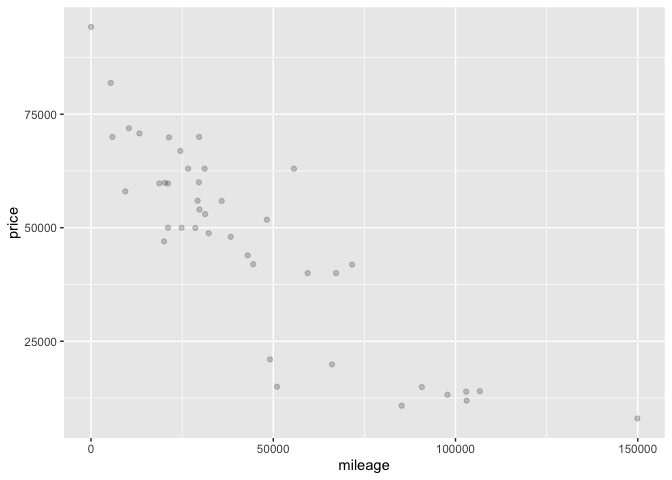
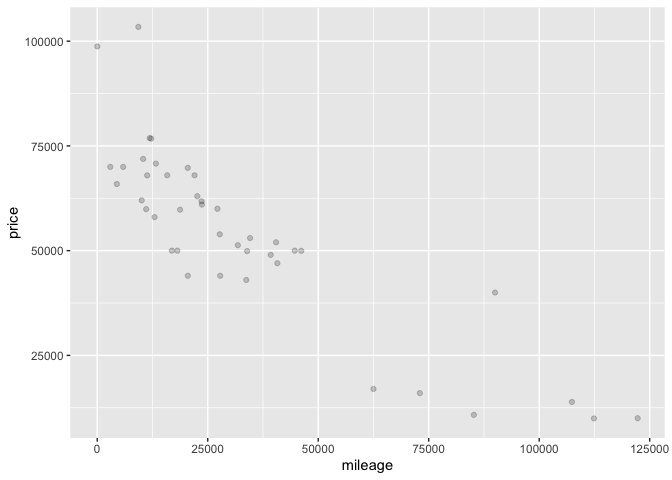
removed warnings and messages

diff --git a/exercise 1/exercise_1.md b/exercise 1/exercise_1.md
@@ -1,74 +1,20 @@
-#1) Data visualization: flights at ABIA
-
-    ## Rows: 99260 Columns: 29
-
-    ## ── Column specification ────────────────────────────────────────────────────────
-    ## Delimiter: ","
-    ## chr  (5): UniqueCarrier, TailNum, Origin, Dest, CancellationCode
-    ## dbl (24): Year, Month, DayofMonth, DayOfWeek, DepTime, CRSDepTime, ArrTime, ...
-
-    ## 
-    ## ℹ Use `spec()` to retrieve the full column specification for this data.
-    ## ℹ Specify the column types or set `show_col_types = FALSE` to quiet this message.
-
-    ## Source : https://maps.googleapis.com/maps/api/staticmap?center=usa&zoom=4&size=640x640&scale=2&maptype=terrain&language=en-EN&key=xxx
-
-    ## Source : https://maps.googleapis.com/maps/api/geocode/json?address=usa&key=xxx
+# 1) Data visualization: flights at ABIA
 
 ![](exercise_1_files/figure-markdown_github/unnamed-chunk-1-1.png)
 
-#2) Wrangling the Billboard Top 100
-
-    ## New names:
-    ## * `` -> ...1
-
-    ## Rows: 327895 Columns: 13
-
-    ## ── Column specification ────────────────────────────────────────────────────────
-    ## Delimiter: ","
-    ## chr (5): url, week_id, song, performer, song_id
-    ## dbl (8): ...1, week_position, instance, previous_week_position, peak_positio...
-
-    ## 
-    ## ℹ Use `spec()` to retrieve the full column specification for this data.
-    ## ℹ Specify the column types or set `show_col_types = FALSE` to quiet this message.
+# 2) Wrangling the Billboard Top 100
 
 ![](exercise_1_files/figure-markdown_github/unnamed-chunk-2-1.png)![](exercise_1_files/figure-markdown_github/unnamed-chunk-2-2.png)
 
-#3) Wrangling the Olympics
-
-    ## Rows: 23850 Columns: 15
-
-    ## ── Column specification ────────────────────────────────────────────────────────
-    ## Delimiter: ","
-    ## chr (10): name, sex, team, noc, games, season, city, sport, event, medal
-    ## dbl  (5): id, age, height, weight, year
-
-    ## 
-    ## ℹ Use `spec()` to retrieve the full column specification for this data.
-    ## ℹ Specify the column types or set `show_col_types = FALSE` to quiet this message.
+# 3) Wrangling the Olympics
 
     ## [1] 10.86549
 
-![](exercise_1_files/figure-markdown_github/unnamed-chunk-3-1.png)
+![](exercise_1_files/figure-markdown_github/unnamed-chunk-3-1.png)![](exercise_1_files/figure-markdown_github/unnamed-chunk-3-2.png)
 
-    ## `summarise()` has grouped output by 'year'. You can override using the `.groups` argument.
+# 4) K-nearest neighbors
 
-![](exercise_1_files/figure-markdown_github/unnamed-chunk-3-2.png)
-
-#4) K-nearest neighbors ##350
-
-    ## Rows: 29466 Columns: 17
-
-    ## ── Column specification ────────────────────────────────────────────────────────
-    ## Delimiter: ","
-    ## chr (11): trim, subTrim, condition, color, displacement, fuel, state, region...
-    ## dbl  (5): id, mileage, year, featureCount, price
-    ## lgl  (1): isOneOwner
-
-    ## 
-    ## ℹ Use `spec()` to retrieve the full column specification for this data.
-    ## ℹ Specify the column types or set `show_col_types = FALSE` to quiet this message.
+## 350
 
     ##        id            trim             subTrim           condition        
     ##  Min.   :  282   Length:416         Length:416         Length:416        
@@ -108,23 +54,21 @@
 
 ![](exercise_1_files/figure-markdown_github/unnamed-chunk-4-1.png)
 
-    ## Warning: executing %dopar% sequentially: no parallel backend registered
-
     ##          k       err
-    ## result.1 2 13835.386
-    ## result.2 3 11003.997
-    ## result.3 4 10408.672
-    ## result.4 5 10550.386
-    ## result.5 6 10017.432
-    ## result.6 7  9915.743
+    ## result.1 2 10341.082
+    ## result.2 3 10100.329
+    ## result.3 4  9851.254
+    ## result.4 5  9869.512
+    ## result.5 6 10214.415
+    ## result.6 7 10143.056
 
 ![](exercise_1_files/figure-markdown_github/unnamed-chunk-4-2.png)
 
-    ## [1] 14
+    ## [1] 16
 
 ![](exercise_1_files/figure-markdown_github/unnamed-chunk-4-3.png)![](exercise_1_files/figure-markdown_github/unnamed-chunk-4-4.png)
 
-##65 AMG
+## 65 AMG
 
     ##        id            trim             subTrim           condition        
     ##  Min.   :  172   Length:1413        Length:1413        Length:1413       
@@ -165,15 +109,15 @@
 ![](exercise_1_files/figure-markdown_github/unnamed-chunk-5-1.png)
 
     ##           k      err
-    ## result.1  2 15563.67
-    ## result.2  4 15454.35
-    ## result.3  6 14415.34
-    ## result.4  8 13847.73
-    ## result.5 10 13479.68
-    ## result.6 15 13200.67
+    ## result.1  2 18233.82
+    ## result.2  4 18651.43
+    ## result.3  6 17493.98
+    ## result.4  8 16852.78
+    ## result.5 10 16645.52
+    ## result.6 15 16288.17
 
 ![](exercise_1_files/figure-markdown_github/unnamed-chunk-5-2.png)
 
-    ## [1] 50
+    ## [1] 25
 
 ![](exercise_1_files/figure-markdown_github/unnamed-chunk-5-3.png)![](exercise_1_files/figure-markdown_github/unnamed-chunk-5-4.png)
